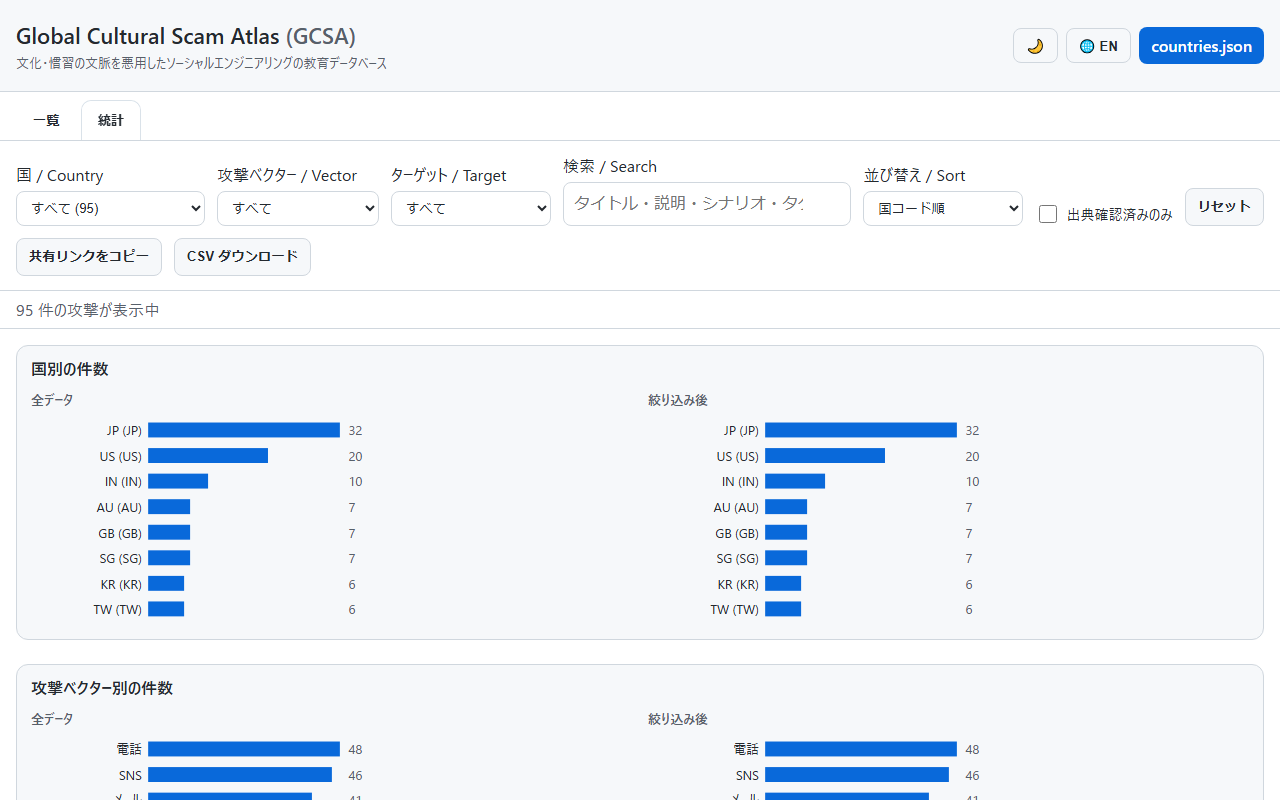
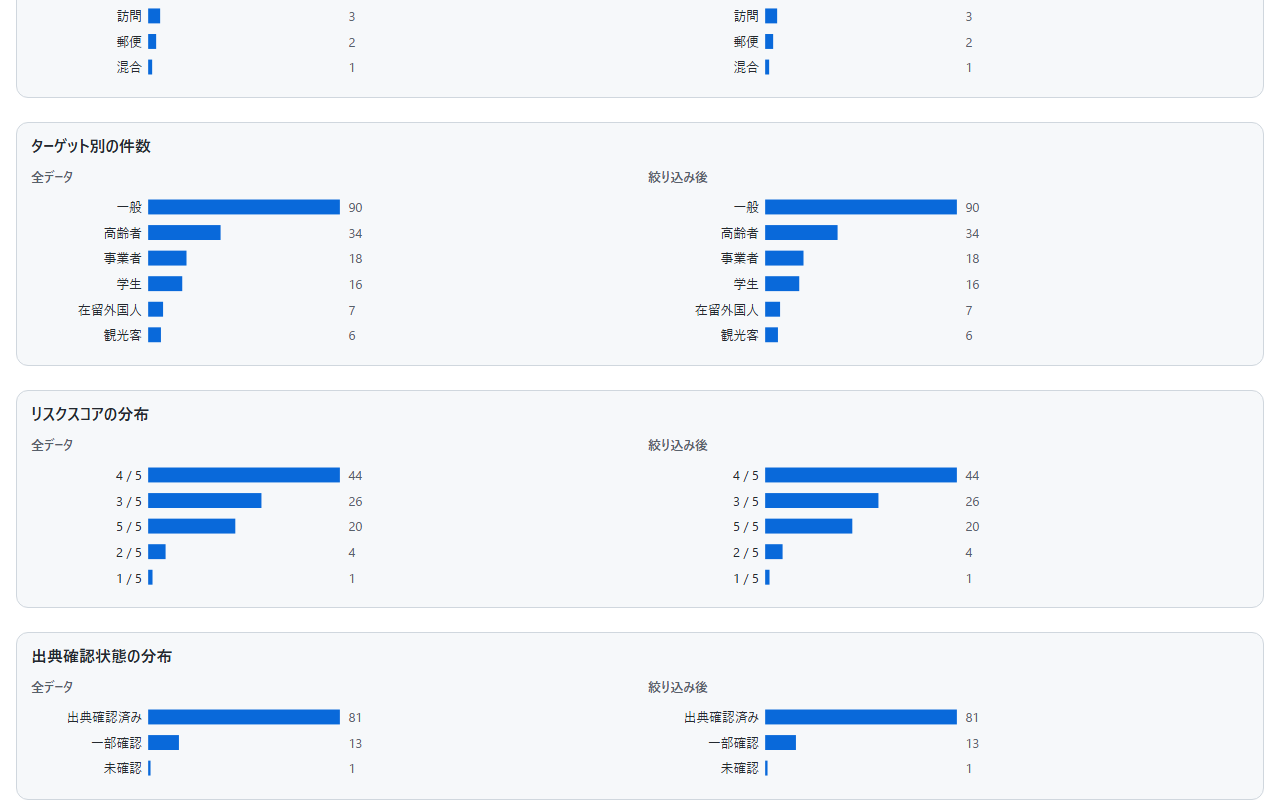
段階10: KR・TW の ja を日本語に、GB の年金の表記、統計画像の構図
- KR 6件・TW 6件の ja フィールド（title・short_desc・cultural_lever・
  scenario・red_flags・mitigations・legal_notes）を自然な日本語に書き
  直し、原語の固有名詞や手口名は括弧で1回だけ併記
- GB の gb-001・gb-002 の『ペンション』を『年金』に修正（宿泊施設と
  混同しないため）
- test/data.test.js に『ja フィールドの括弧の外にハングルがない』の
  検査を追加
- assets/screenshot4.png を再撮影し、『出典確認状態の分布』節が
  viewport に入る位置までスクロール

diff --git a/test/data.test.js b/test/data.test.js
@@ -116,6 +116,47 @@ test('verification (when present) has status in enum and checked in YYYY-MM-DD',
   }
 });
 
+test('ja fields do not contain Hangul outside parentheses', async () => {
+  // ja は日本語で書く。原語の固有名詞や手口名は、日本語の語のあとに
+  // 括弧（全角「（）」または半角「()」）で1回だけ併記してよい。
+  // 括弧の外にハングルが残らないことを機械的に確かめる。
+  const HANGUL = /[가-힣ㄱ-ㆎ]/;
+  const JA_FIELDS = ['title', 'short_desc', 'cultural_lever', 'scenario', 'legal_notes'];
+  const JA_ARRAY_FIELDS = ['red_flags', 'mitigations'];
+  function stripParens(s){
+    // 括弧の中身を取り除く（全角・半角ともに）
+    return String(s)
+      .replace(/（[^（）]*）/g, '')
+      .replace(/\([^()]*\)/g, '');
+  }
+  function checkString(s, where){
+    const stripped = stripParens(s);
+    const m = stripped.match(HANGUL);
+    assert.ok(!m, `${where}: Hangul "${m && m[0]}" remains outside parentheses in ja field. value="${s}"`);
+  }
+  const dirs = await listCountryDirs();
+  for(const cc of dirs){
+    for(const file of await listAttackFiles(cc)){
+      const c = JSON.parse(await fs.readFile(file, 'utf-8'));
+      for(const f of JA_FIELDS){
+        const v = c[f];
+        if(v && typeof v === 'object' && typeof v.ja === 'string'){
+          checkString(v.ja, `${file} ${f}.ja`);
+        }
+      }
+      for(const f of JA_ARRAY_FIELDS){
+        const v = c[f];
+        if(v && typeof v === 'object' && Array.isArray(v.ja)){
+          v.ja.forEach((item, i) => checkString(item, `${file} ${f}.ja[${i}]`));
+        }
+      }
+      if(c.verification && typeof c.verification.note === 'string'){
+        checkString(c.verification.note, `${file} verification.note`);
+      }
+    }
+  }
+});
+
 test('every references entry has an http(s) URL', async () => {
   const dirs = await listCountryDirs();
   for(const cc of dirs){
